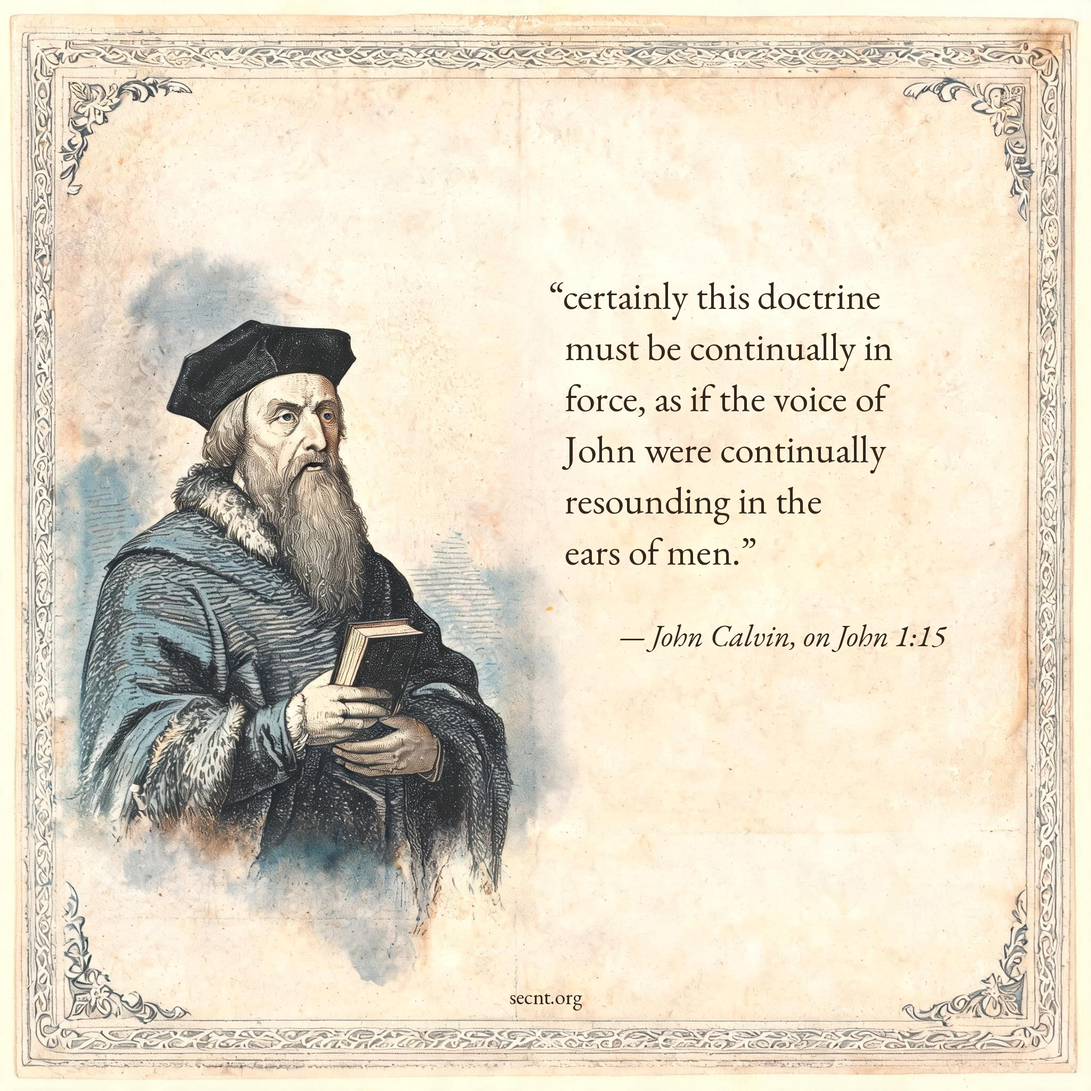
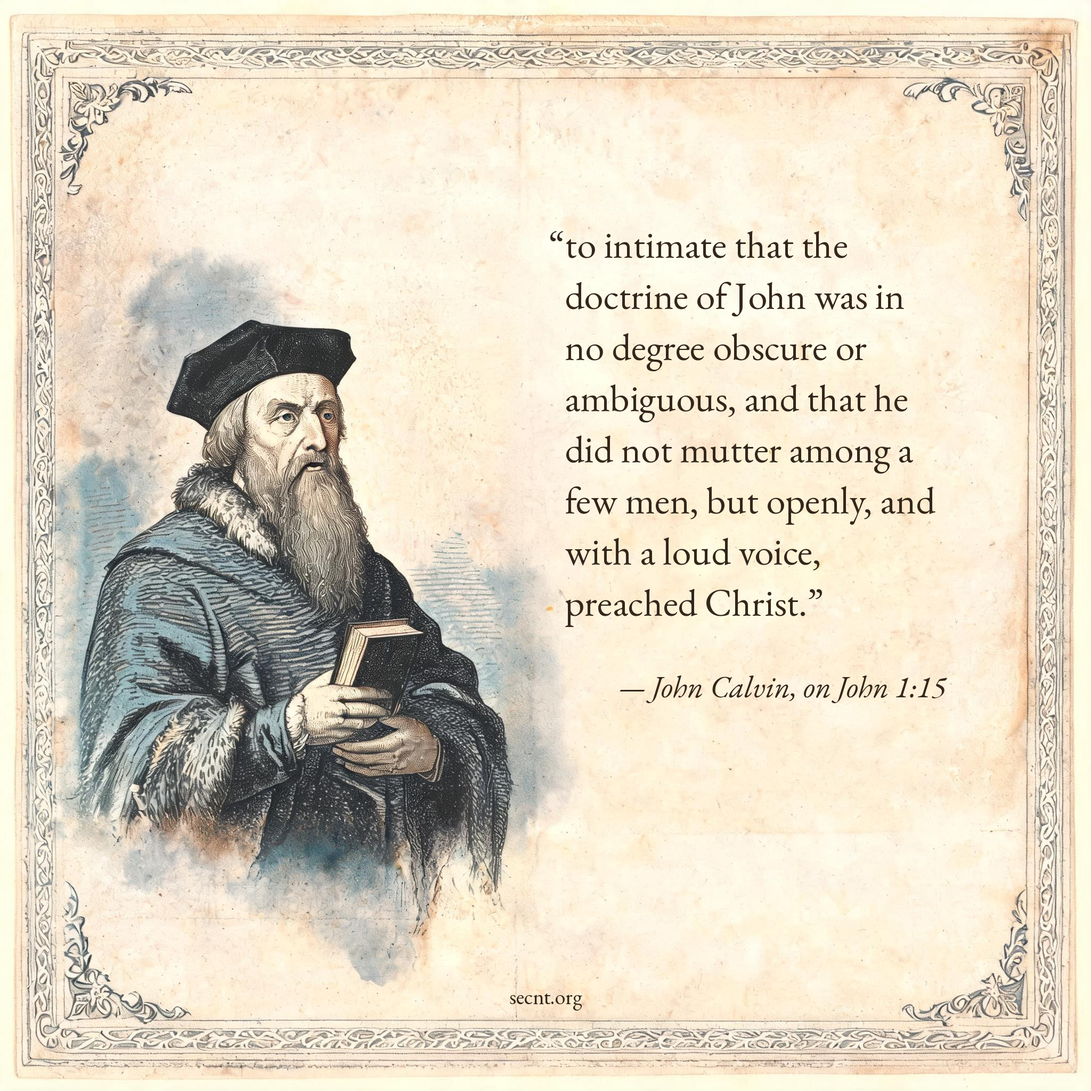
Cards jn1-1418-09 and -09b replaced: the first cards duplicated jn1-1418-05 and -06
On the Editor's word, 10 November 2026 ("1-3 as recommended"), on the
duplicate-card finding (corpus run log, Finding 4). The card pages
published with the flip (1bc8960) repeated card 05 word for word and
card 06 less its first sentence. IDs, titles, verses and alt text are
unchanged; the quotation, source page, note and images are replaced:
- jn1-1418-09: Calvin on John 1:15, vol. 1, p. 49, on the cry ("to
  intimate that the doctrine of John was in no degree obscure or
  ambiguous, and that he did not mutter among a few men, but openly,
  and with a loud voice, preached Christ.").
- jn1-1418-09b: Calvin on John 1:18, vol. 1, p. 53 ("the knowledge of
  God is the door …").
The images are the corpus cards (corpus 8237007): the 2048 copy is
byte-identical, and the 1080 is by Lanczos at quality 90. Each page's
note is its post text, held for the Editor's approval: this commit is
not merged until he gives it. The production build is clean.

Authorized by: the Editor, 10 November 2026 ("1-3 as recommended");
standing commit authorization
Base: 1b96d2d

Claude-Session: https://claude.ai/code/session_017P13fyhncUXNmJrroPfFGa

diff --git a/src/content/cards/jn1-1418-09b.md b/src/content/cards/jn1-1418-09b.md
@@ -2,16 +2,16 @@
 title: "John Calvin on John 1:18"
 description: "Quotation card from the SECNT commentary on John 1:14–18: John Calvin, on John 1:18"
 section: john/1-14-to-18/08-the-aperture
-quotation: "He therefore shows that the Son was acquainted with the most hidden secrets of his Father, in order to inform us that we have the breast of God, as it were, laid open to us in the Gospel."
+quotation: "the knowledge of God is the door by which we enter into the enjoyment of all blessings; and as it is by Christ alone that God makes himself known to us, hence too it follows that we ought to seek all things from Christ."
 voice: "John Calvin"
 verse: "John 1:18"
-source: "John Calvin, *Commentary on the Gospel according to John*, trans. William Pringle, vol. 1 (Calvin Translation Society, 1847), p. 55"
+source: "John Calvin, *Commentary on the Gospel according to John*, trans. William Pringle, vol. 1 (Calvin Translation Society, 1847), p. 53"
 imageAlt: "Quotation card on aged parchment with an ornate engraved border. On the left, an engraved portrait of John Calvin in a black cap and robe, holding a book. On the right, the quotation, with the attribution John Calvin, on John 1:18, and secnt.org at the foot."
 license: CC-BY-4.0
 ---
 
 John 1:18. No one has ever seen God. The only Son, himself God, who is in the bosom of the Father — he has made him known.
 
-Calvin on the bosom of the Father: the metaphor is of one who shares all his secrets. "He therefore shows that the Son was acquainted with the most hidden secrets of his Father, in order to inform us that we have the breast of God, as it were, laid open to us in the Gospel."
+Calvin on why the verse is added here, to confirm what went before: "the knowledge of God is the door by which we enter into the enjoyment of all blessings; and as it is by Christ alone that God makes himself known to us, hence too it follows that we ought to seek all things from Christ."
 
 The Son is where he always is, and he has made the Father known.

diff --git a/src/content/cards/jn1-1418-09.md b/src/content/cards/jn1-1418-09.md
@@ -2,7 +2,7 @@
 title: "John Calvin on John 1:15"
 description: "Quotation card from the SECNT commentary on John 1:14–18: John Calvin, on John 1:15"
 section: john/1-14-to-18/08-the-aperture
-quotation: "certainly this doctrine must be continually in force, as if the voice of John were continually resounding in the ears of men."
+quotation: "to intimate that the doctrine of John was in no degree obscure or ambiguous, and that he did not mutter among a few men, but openly, and with a loud voice, preached Christ."
 voice: "John Calvin"
 verse: "John 1:15"
 source: "John Calvin, *Commentary on the Gospel according to John*, trans. William Pringle, vol. 1 (Calvin Translation Society, 1847), p. 49"
@@ -12,6 +12,6 @@ license: CC-BY-4.0
 
 John 1:15. John bears witness about him, and has cried out.
 
-Calvin on the present tense: John's witness is "a continued act", and "certainly this doctrine must be continually in force, as if the voice of John were continually resounding in the ears of men."
+Calvin on the cry: the evangelist uses it "to intimate that the doctrine of John was in no degree obscure or ambiguous, and that he did not mutter among a few men, but openly, and with a loud voice, preached Christ."
 
-Into a Gospel told looking back, the evangelist sets one voice in the present. The Baptist is still bearing witness, in the reader's own day.
+The Baptist's witness was not a private word. It was cried aloud, and it is still sounding in the reader's own day.
